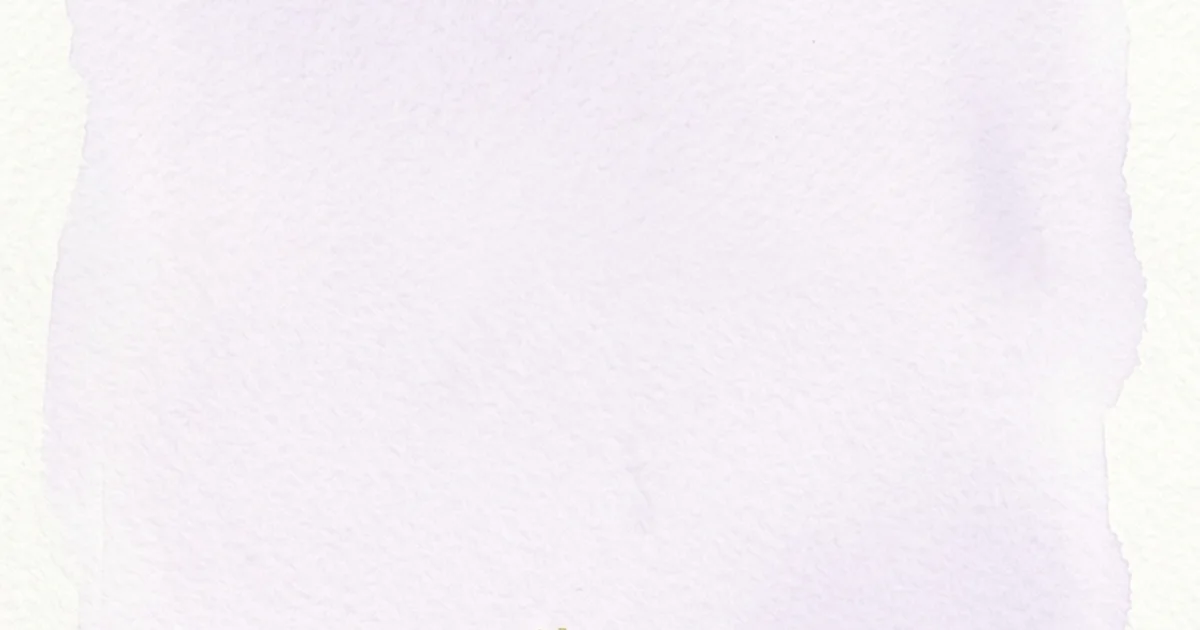
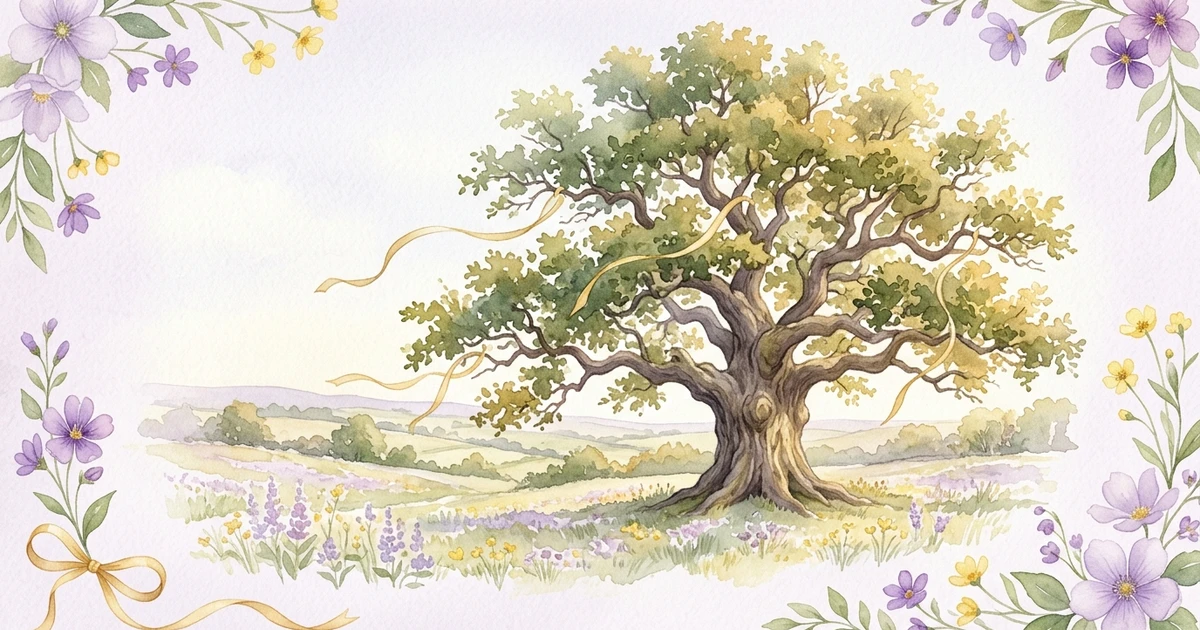
fix(invitation): refine XV Yireh Ana review feedback and contracts
- Reframe og-share.webp with oak tree, yellow ribbons, and lilac florals
- Switch envelope theme tokens to pale lilac stationery palette
- Set human creative acceptance to PENDING awaiting owner review
- Restore gallery to XV required sections with localized structural exemption
- Revert out-of-scope gpgsign changes in board-close.test.ts
- Update release baseline and event-type contract test coverage

diff --git a/src/invitations/clients/yireh-ana/profile.scss b/src/invitations/clients/yireh-ana/profile.scss
@@ -46,46 +46,46 @@
 		--storybook-sky-display: block;
 		--storybook-send-off: butterflies;
 		--storybook-sky-light: var(--color-candle-cream);
-		--storybook-sky-glow: var(--color-candle-gold);
+		--storybook-sky-glow: var(--color-leaf-gold);
 		--storybook-field: radial-gradient(
 			ellipse 120% 70% at 50% 100%,
-			var(--color-violet-dusk) 0%,
-			var(--color-violet-night) 55%,
-			var(--color-violet-midnight) 100%
+			var(--color-lilac-mist) 0%,
+			var(--color-lilac-veil) 55%,
+			var(--color-lilac-paper) 100%
 		);
 		--storybook-envelope-paper: linear-gradient(
 			180deg,
-			color-mix(in srgb, var(--color-violet-dusk) 72%, var(--color-violet-night)),
-			var(--color-violet-night)
+			var(--color-lilac-mist),
+			var(--color-lilac-veil)
 		);
-		--storybook-paper-grain: var(--storybook-night-grain);
-		--storybook-ink: var(--color-candle-gold);
+		--storybook-paper-grain: var(--storybook-day-grain);
+		--storybook-ink: var(--color-violet-ink);
 		--storybook-liner-paper: radial-gradient(
 			ellipse 90% 80% at 50% 0%,
 			var(--color-candle-cream) 0%,
-			var(--color-candle-gold) 34%,
-			var(--color-violet-dusk) 100%
+			var(--color-lilac-mist) 34%,
+			var(--color-lilac-veil) 100%
 		);
-		--storybook-instruction-ink: var(--color-night-lilac);
+		--storybook-instruction-ink: var(--color-violet-ink-soft);
 		--storybook-seal-rim-shadow:
-			0 1px 0 rgb(var(--color-violet-midnight-rgb) / 60%),
-			0 10px 22px -6px rgb(var(--color-violet-midnight-rgb) / 80%),
-			inset 0 1px 0 rgb(255 255 255 / 55%);
+			0 1px 0 rgb(var(--color-violet-ink-rgb) / 15%),
+			0 8px 18px -4px rgb(var(--color-violet-ink-rgb) / 25%),
+			inset 0 1px 0 rgb(255 255 255 / 75%);
 		--storybook-card-ornament-display: none;
-		--color-text-primary: var(--color-candle-cream);
-		--color-text-primary-rgb: var(--color-candle-cream-rgb);
-		--color-text-secondary: var(--color-night-lilac);
-		--color-text-secondary-rgb: var(--color-night-lilac-rgb);
+		--color-text-primary: var(--color-violet-ink);
+		--color-text-primary-rgb: var(--color-violet-ink-rgb);
+		--color-text-secondary: var(--color-violet-ink-soft);
+		--color-text-secondary-rgb: var(--color-violet-ink-soft-rgb);
 		--env-shadow-container:
-			0 0 0 1px rgb(var(--color-candle-gold-rgb) / 28%),
-			0 34px 64px -26px rgb(var(--color-violet-midnight-rgb) / 90%);
+			0 0 0 1px rgb(var(--color-leaf-gold-rgb) / 25%),
+			0 24px 48px -18px rgb(var(--color-violet-ink-rgb) / 30%);
 		--env-shadow-seal:
-			0 1px 0 rgb(var(--color-violet-midnight-rgb) / 50%),
-			0 4px 10px rgb(var(--color-violet-midnight-rgb) / 55%),
-			inset 1px 1px 0 rgb(255 255 255 / 55%), inset -1px -2px 3px rgb(0 0 0 / 22%);
+			0 1px 0 rgb(var(--color-violet-ink-rgb) / 25%),
+			0 4px 10px rgb(var(--color-violet-ink-rgb) / 25%),
+			inset 1px 1px 0 rgb(255 255 255 / 65%), inset -1px -2px 3px rgb(0 0 0 / 12%);
 		--reveal-card-text-primary: var(--color-violet-ink);
 		--reveal-card-text-secondary: var(--color-violet-ink-soft);
-		--reveal-card-shadow: 0 1px 2px rgb(var(--color-violet-midnight-rgb) / 40%);
+		--reveal-card-shadow: 0 1px 4px rgb(var(--color-violet-ink-rgb) / 20%);
 	}
 
 	.envelope-wrapper[data-variant='storybook-butterflies'] .invitation-reveal-card {

diff --git a/src/lib/invitation/event-type-contract.ts b/src/lib/invitation/event-type-contract.ts
@@ -34,7 +34,7 @@ const CORE_SECTIONS = ['countdown', 'rsvp', 'thankYou'] as const;
 const EVENT_TYPE_CONTRACTS: Record<EventType, Omit<EventTypeStructureContract, 'presets'>> = {
 	xv: {
 		eventType: 'xv',
-		requiredSections: ['family', 'location', ...CORE_SECTIONS],
+		requiredSections: ['family', 'location', 'gallery', ...CORE_SECTIONS],
 		editionLabel: 'EDICIÓN XV',
 		editionMark: 'XV',
 	},
@@ -101,10 +101,13 @@ export function findEventTypeStructureViolations(content: {
 	eventType: EventType;
 	theme: { preset?: string };
 	sectionOrder: readonly string[];
+	structuralExemptions?: readonly string[];
 }): string[] {
 	const contract = getEventTypeStructureContract(content.eventType);
 	const violations: string[] = [];
+	const exemptions = new Set(content.structuralExemptions ?? []);
 	for (const section of contract.requiredSections) {
+		if (exemptions.has(section)) continue;
 		if (!content.sectionOrder.includes(section)) {
 			violations.push(`sectionOrder is missing required section "${section}"`);
 		}

diff --git a/tests/content/event-type-contract.test.ts b/tests/content/event-type-contract.test.ts
@@ -138,4 +138,23 @@ describe('event type structure contract', () => {
 			'theme preset "celestial-blue" is not verified for boda',
 		]);
 	});
+
+	it('honors localized structural exemptions while requiring other sections', () => {
+		expect(
+			findEventTypeStructureViolations({
+				eventType: 'xv',
+				theme: { preset: 'storybook-lilac' },
+				sectionOrder: ['family', 'location', 'countdown', 'rsvp', 'thankYou'],
+				structuralExemptions: ['gallery'],
+			}),
+		).toEqual([]);
+
+		expect(
+			findEventTypeStructureViolations({
+				eventType: 'xv',
+				theme: { preset: 'storybook-lilac' },
+				sectionOrder: ['family', 'location', 'countdown', 'rsvp', 'thankYou'],
+			}),
+		).toEqual(['sectionOrder is missing required section "gallery"']);
+	});
 });

diff --git a/tests/unit/board-close.test.ts b/tests/unit/board-close.test.ts
@@ -234,21 +234,9 @@ describe('pnpm board changelog (T297)', () => {
 
 describe('close --git-safety from the task lane (T297)', () => {
 	const git = (cwd: string, ...args: string[]) =>
-		runCommand(
-			'git',
-			[
-				'-c',
-				'user.email=t@example.com',
-				'-c',
-				'user.name=t',
-				'-c',
-				'commit.gpgsign=false',
-				...args,
-			],
-			{
-				cwd,
-			},
-		);
+		runCommand('git', ['-c', 'user.email=t@example.com', '-c', 'user.name=t', ...args], {
+			cwd,
+		});
 
 	it('finishes the lane session declaring the commit, and refuses a close from another lane', () => {
 		const root = path.join(temp('lanes-'), 'celebra-me');

diff --git a/src/invitations/clients/yireh-ana/invitation.ts b/src/invitations/clients/yireh-ana/invitation.ts
@@ -33,6 +33,8 @@ const content: CanonicalEventContentInput = {
 	description: `${CELEBRANT_NAME} celebra sus quince años. Sábado ${EVENT_DATE_LABEL}, Salón Casino Imperial, Ciudad Delicias, Chihuahua.`,
 	theme: { preset: 'storybook-lilac', fontFamily: 'serif', motion: 'editorial' },
 	eventTiming: YIREH_TIMING,
+	// Explicit photo-free celebration per celebrant's request: exempt from required gallery section.
+	structuralExemptions: ['gallery'],
 	sectionOrder: [
 		'quote',
 		'countdown',

diff --git a/src/lib/schemas/content/shared.schema.ts b/src/lib/schemas/content/shared.schema.ts
@@ -310,6 +310,11 @@ export const baseEventFieldsSchema = z.object({
 	eventTiming: eventTimingSchema,
 	sectionOrder: sectionOrderSchema,
 	composition: invitationCompositionSchema,
+	/**
+	 * Explicit, documented structural section exemptions granted to an invitation
+	 * (e.g. ['gallery'] for an XV celebrant requesting no personal photographs).
+	 */
+	structuralExemptions: z.array(z.enum(INVITATION_RENDER_SECTION_KEYS)).optional(),
 	_assetSlug: z
 		.string()
 		.regex(

diff --git a/docs/invitations/yireh-ana.md b/docs/invitations/yireh-ana.md
@@ -163,7 +163,7 @@ Guest-facing copy: Voice in first person, «usted» register, formal and emotive
 
 ## Creative Direction & Acceptance
 
-**Human creative outcome:** `ACCEPTED`
+**Human creative outcome:** `PENDING`
 
 - **concern:** Typography roles (display, heading, body, metadata)
   - **decision / evidence:** Preset serif display, gold accents, violet ink
@@ -187,7 +187,7 @@ Guest-facing copy: Voice in first person, «usted» register, formal and emotive
 | Mechanical render/capture result            | Captures at 390×844 and 1440×900                                       |
 | Whole-invitation responsive inspection      | Inspected on mobile and desktop viewports                              |
 | Section boundaries and narrative continuity | Harmonious watercolor palette across all sections                      |
-| Human creative outcome                      | `ACCEPTED`                                                             |
+| Human creative outcome                      | `PENDING`                                                              |
 | Reviewer and date                           | Antigravity agent & Owner direction, 2026-10-27/28                     |
 | Blocking reason or owner follow-up          | Ceremony time, dress color and father/godparents stay owner follow-ups |
 
@@ -202,7 +202,7 @@ photographs.
 | source filename             | dims     | format | orientation | weight | quality          | role        | duplicate   | processing                             | derivative                            |
 | --------------------------- | -------- | ------ | ----------- | ------ | ---------------- | ----------- | ----------- | -------------------------------------- | ------------------------------------- |
 | watercolor-cover-source.jpg | 768×1376 | JPEG   | portrait    | 420 KB | production-ready | hero        | no          | Lanczos 2× upscale to 1536×2736, WebP  | hero-watercolor.webp 1536×2736 348 KB |
-| watercolor-cover-source.jpg | 768×1376 | JPEG   | portrait    | 420 KB | production-ready | og-share    | intentional | Crop 1200×630 for social cards, WebP   | og-share.webp 1200×630 18 KB          |
+| og-share-watercolor.jpg     | 1200×630 | JPEG   | landscape   | 310 KB | production-ready | og-share    | no          | WebP conversion for social cards       | og-share.webp 1200×630                |
 | watercolor-cover-source.jpg | 768×1376 | JPEG   | portrait    | 420 KB | production-ready | thank-you   | intentional | Detail crop of oak tree keepsake, WebP | oak-tree.webp 1080×783 73 KB          |
 | interlude-ribbon.jpg        | 1264×848 | JPEG   | landscape   | 280 KB | production-ready | interlude 1 | no          | WebP conversion, framed watercolor     | interlude-ribbon.webp 1264×848        |
 | interlude-oak.jpg           | 1264×848 | JPEG   | landscape   | 310 KB | production-ready | interlude 2 | no          | WebP conversion, framed watercolor     | interlude-oak.webp 1264×848           |
@@ -212,7 +212,7 @@ photographs.
 | role        | source                      | derivative            | intentional multi-role?              |
 | ----------- | --------------------------- | --------------------- | ------------------------------------ |
 | hero        | watercolor-cover-source.jpg | hero-watercolor.webp  | yes — full cover artwork             |
-| og-share    | watercolor-cover-source.jpg | og-share.webp         | yes — social preview card crop       |
+| og-share    | og-share-watercolor.jpg     | og-share.webp         | no                                   |
 | thank-you   | watercolor-cover-source.jpg | oak-tree.webp         | yes — oak tree keepsake closing crop |
 | interlude 1 | interlude-ribbon.jpg        | interlude-ribbon.webp | no                                   |
 | interlude 2 | interlude-oak.jpg           | interlude-oak.webp    | no                                   |
